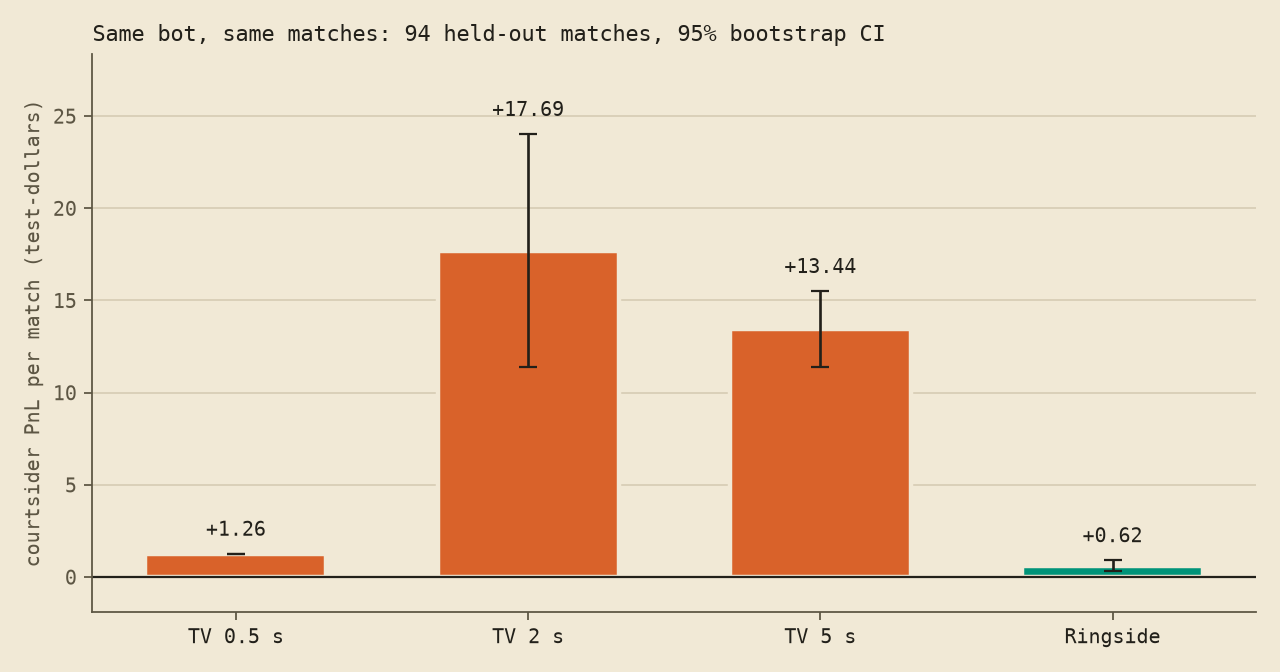
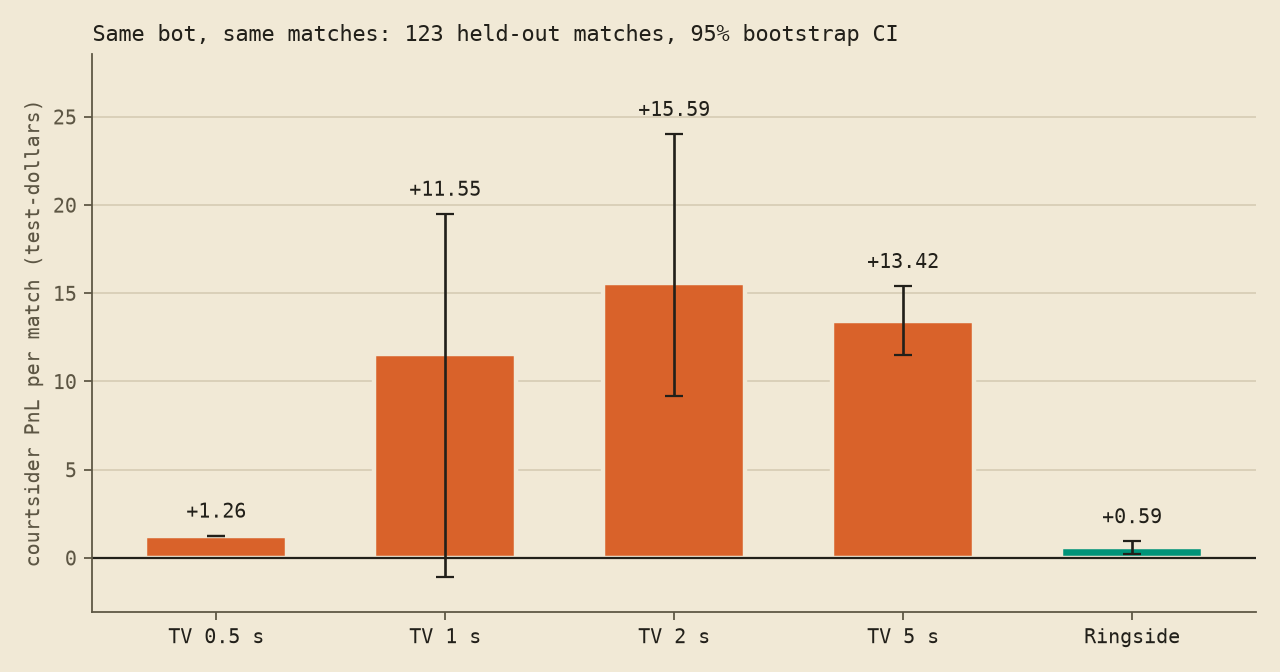
Track detached processes by process group and dedupe courtsider rows

diff --git a/bots/lobby.ts b/bots/lobby.ts
@@ -28,6 +28,10 @@ if (!runnerIdx) {
 }
 if (arenaOnly) {
   console.log("[arena] bots running for every match");
+  const arenaBots = ["spec-1", "spec-2", "spec-3", "spec-4", "courtsider"].map(ensureKeypair);
+  const top = () => refill(env, admin, arenaBots, 30_000_000n, 200_000_000n).catch(() => {});
+  await top();
+  setInterval(top, 60_000);
   await new Promise(() => {});
 }
 const fighterKeys = runnerIdx ? [`fighter-a-${runnerIdx}`, `fighter-b-${runnerIdx}`] : ["fighter-a", "fighter-b"];

diff --git a/eval/make_report.py b/eval/make_report.py
@@ -61,7 +61,13 @@ def style(ax):
 
 
 def e1(env):
-    rows = [r for r in load(DATA / f"courtsider-{env}.jsonl", []) if r.get("pnlDelayed") is not None]
+    seen = set()
+    rows = []
+    for r in load(DATA / f"courtsider-{env}.jsonl", []):
+        if r.get("pnlDelayed") is None or r["id"] in seen:
+            continue  # one row per match
+        seen.add(r["id"])
+        rows.append(r)
     if not rows:
         return None
     delays = sorted({r["delayMs"] for r in rows})

diff --git a/README.md b/README.md
@@ -2,7 +2,7 @@
 
 Ringside is an in-play betting exchange that can't be courtsided: the fight and the order book live in the same MagicBlock rollup, so every price is as fresh as the last punch.
 
-Same bot, same 89 held-out matches, 5 s TV delay: the courtsider made **+13.44** per match on the delayed book and **+0.62** on Ringside, where 1011 of its stale orders were rejected onchain and 52 filled. Measured on local MagicBlock stack (base validator + ER 1.1.1).
+Same bot, same 115 held-out matches, 5 s TV delay: the courtsider made **+13.42** per match on the delayed book and **+0.59** on Ringside, where 1420 of its stale orders were rejected onchain and 135 filled. Measured on local MagicBlock stack (base validator + ER 1.1.1).
 
 ![A live Ringside match: the odds line moves with every hit](docs/media/ringside.gif)
 
@@ -71,20 +71,20 @@ Each match has two books on the same fight. The Ringside book is priced inside `
 
 All numbers below come from `eval/results/results.json`, written by `eval/make_report.py`. Evaluation is on held-out data: matches the courtsider was never tuned on, model metrics on a held-out 15% split by match, PPO win rates on match seeds never used in training.
 
-### E1 · courtsiding A/B (94 matches)
+### E1 · courtsiding A/B (123 matches)
 
 ![Courtsider PnL per match, TV-delay books vs Ringside](eval/results/e1_courtsider_ab.png)
 
 | Book | Matches | Courtsider PnL / match | 95% CI | Stale fills accepted | House PnL / match |
 |---|---|---|---|---|---|
 | TV delay 0.5 s | 1 | +1.26 | +1.26 to +1.26 | 10 | +2.33 |
-| TV delay 1 s | PENDING | PENDING | PENDING to PENDING | PENDING | PENDING |
-| TV delay 2 s | 4 | +17.69 | +11.37 to +24.02 | 41 | -17.28 |
-| TV delay 5 s | 89 | +13.44 | +11.41 to +15.51 | 862 | -15.95 |
+| TV delay 1 s | 4 | +11.55 | -1.08 to +19.50 | 24 | -0.63 |
+| TV delay 2 s | 3 | +15.59 | +9.18 to +24.02 | 28 | -14.52 |
+| TV delay 5 s | 115 | +13.42 | +11.48 to +15.41 | 898 | -16.74 |
 | TV delay 8 s | PENDING | PENDING | PENDING to PENDING | PENDING | PENDING |
-| Ringside | 94 | +0.62 | +0.31 to +0.91 | 52 | +3.11 |
+| Ringside | 123 | +0.59 | +0.22 to +0.94 | 135 | +5.86 |
 
-On Ringside the courtsider sent 1181 orders stamped with the tick it saw on the delayed feed; 1011 were rejected with `ErrStaleTick`. It also traded at the live tick 833 times, where it pays the spread like everyone else.
+On Ringside the courtsider sent 1587 orders stamped with the tick it saw on the delayed feed; 1420 were rejected with `ErrStaleTick`. It also traded at the live tick 895 times, where it pays the spread like everyone else.
 
 ### E2 · is the price right? (29890 held-out matches, 2859074 rows)
 
@@ -125,7 +125,7 @@ The PPO fighter (141459456 steps of self-play against a league of past checkpoin
 - The distilled logistic that fits in a tick has held-out Brier 0.1736 against 0.1639 for the LightGBM teacher it was distilled from. We trade some accuracy for running inside the instruction.
 - In the last 20 seconds of regulation the onchain model's ECE is 0.0249, against 0.0034 overall: a linear model underfits the swingy end of a fight.
 - At a 0.5 s TV delay the courtsider's PnL per match is +1.26 (95% CI +1.26 to +1.26); the edge comes from the 2–8 s delays that real streams have.
-- On Ringside every stale order was rejected, but the courtsider's orders at the live tick still made +0.62 per match (95% CI +0.31 to +0.91): the model does not fully price the momentum right after a hit.
+- On Ringside every stale order was rejected, but the courtsider's orders at the live tick still made +0.59 per match (95% CI +0.22 to +0.94): the model does not fully price the momentum right after a hit.
 - Measured tick cadence is p50 100 ms but p99 140 ms: the 100 ms crank is a target, not a guarantee.
 
 Weakest case: Calibration is worst late in regulation. In the last 20 seconds of regulation the onchain model's ECE is 0.0249, against 0.0034 overall: a linear model underfits the swingy end of a fight.

diff --git a/docs/submission.md b/docs/submission.md
@@ -16,7 +16,7 @@ Ringside is an in-play betting exchange that can't be courtsided: the fight and 
 
 Two staked players fight a 90-second duel that runs fully onchain on a Private Ephemeral Rollup. A crank advances the fight every 100 ms, and the same instruction re-prices a "who wins" book from the new state with an integer win-probability model. Every order carries the tick it was priced on; anything more than 2 ticks stale is rejected by the program. Spectator positions stay sealed in the TEE until the bell, power-ups come from VRF, payouts move as Ephemeral SPL balances, and a Magic Action writes a MatchRecord receipt to Solana.
 
-Same bot, same 89 held-out matches, 5 s TV delay: the courtsider made +13.44 per match on the delayed book and +0.62 on Ringside, where 1011 of its stale orders were rejected onchain. Every match replays bit for bit in the browser from its VRF seeds and inputs.
+Same bot, same 115 held-out matches, 5 s TV delay: the courtsider made +13.42 per match on the delayed book and +0.59 on Ringside, where 1420 of its stale orders were rejected onchain. Every match replays bit for bit in the browser from its VRF seeds and inputs.
 
 ## Categories
 
@@ -54,7 +54,7 @@ PENDING
 
 ## X post
 
-Sportsbooks freeze in-play markets because faster watchers pick off stale prices. Ringside puts the fight and the order book in one @magicblock rollup: same bot, 5 s TV delay, +13.44 per match on a delayed book, +0.62 on Ringside. Play or trade a live fight from your phone: PENDING
+Sportsbooks freeze in-play markets because faster watchers pick off stale prices. Ringside puts the fight and the order book in one @magicblock rollup: same bot, 5 s TV delay, +13.42 per match on a delayed book, +0.59 on Ringside. Play or trade a live fight from your phone: PENDING
 
 ## Builder directory blurb
 

diff --git a/docs/video.md b/docs/video.md
@@ -12,7 +12,7 @@ Target length about 3 minutes (the form names no limit). Every number on screen 
 
 **0:40 Phone.** Point a phone at the QR code on the match screen. One wallet prompt, then the judge buys blue at the price on the board. The fill ticket prints with its tick and latency. Blue lands a comeback; the odds line swings; at the bell the payout lands in the same second.
 
-**1:15 Proof.** The A/B chart: +13.44 per match on the delayed book against +0.62 on Ringside over 89 held-out matches. The reliability diagram: onchain integer model Brier 0.1736 against 0.2500 for a coin flip. Tick cadence p50 100 ms, measured.
+**1:15 Proof.** The A/B chart: +13.42 per match on the delayed book against +0.59 on Ringside over 115 held-out matches. The reliability diagram: onchain integer model Brier 0.1736 against 0.2500 for a coin flip. Tick cadence p50 100 ms, measured.
 
 **1:45 Sealed until the bell.** A spectator's position read by another wallet: denied. After settle, the same read succeeds. Voice: "Positions stay private inside the TEE until the bell, then everyone can check them."
 
